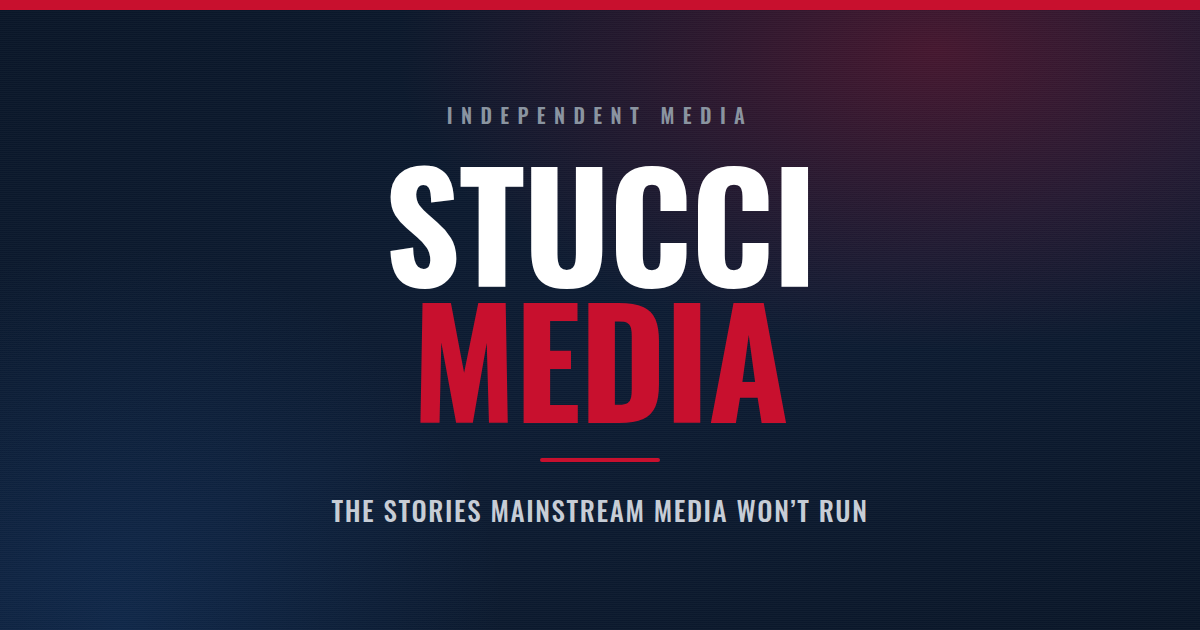
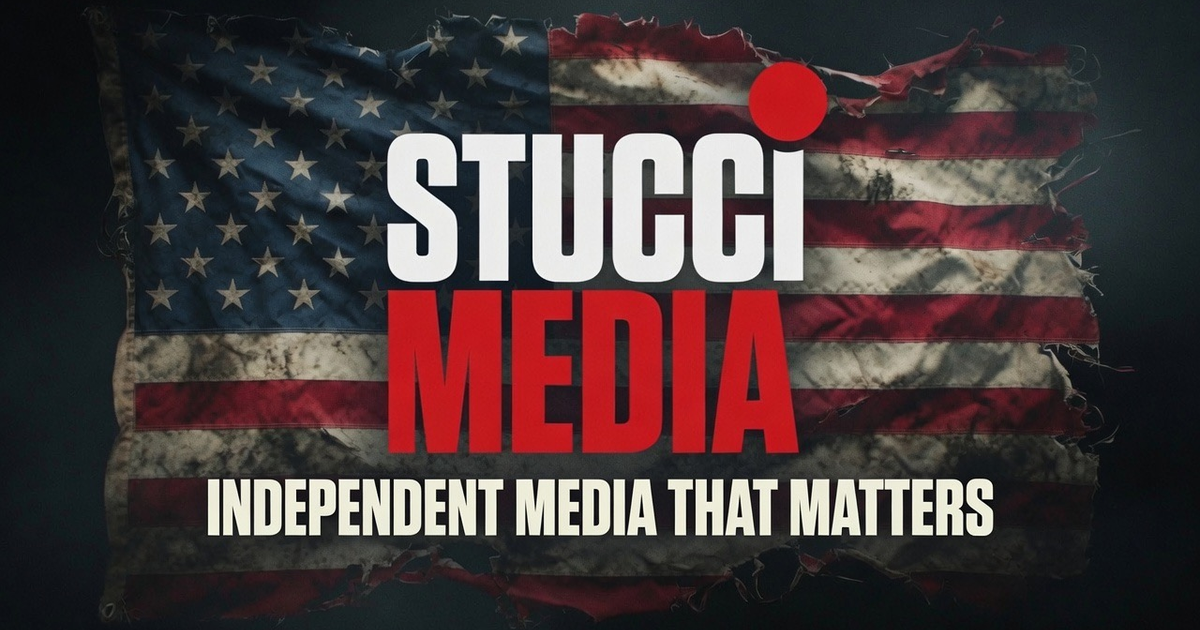
Update default share image (og:image) to new branded flag design
Replaces the sitewide og-default.png fallback (homepage, category/
article/contact pages without their own share image) with a new
1200x630 branded card supplied directly, cropped via sharp from the
1280x720 source. No code changes needed — every page already
references this one file.

diff --git a/CLAUDE.md b/CLAUDE.md
@@ -2394,3 +2394,30 @@ overflow categories a real home.
   main-menu-cap warning appears correctly once 5 MAIN categories already
   exist. A throwaway admin account used for the admin-UI checks was
   removed afterward.
+
+## Phase 39 — done: new default share image
+
+`public/og-default.png` (the sitewide fallback `og:image` — homepage,
+category pages without their own share image, articles without a set OG
+image, and Contact) replaced with a new branded 1200×630 card (torn
+American flag background, "Stucci Media / Independent Media That
+Matters"), supplied directly by Rocci and cropped from a 1280×720 source
+via `sharp` (`cover` fit, top/bottom trimmed slightly — the wordmark and
+tagline both stay fully visible at the new crop). No code changes needed
+— every page that references `/og-default.png` already pulls from this
+one file, so the swap took effect everywhere at once.
+
+- **Real root cause found for a live bug report**: Rocci reported
+  Facebook's link preview for the homepage showing a generic gray box
+  and the title "Home" instead of the real branded card. The homepage's
+  actual `openGraph`/`twitter` metadata (`app/layout.tsx`) was already
+  correct — verified directly, title/description/image all set
+  properly, and `og-default.png` was already a real branded image before
+  this phase, not a placeholder. The mismatch was diagnosed as Facebook's
+  own link-preview cache: Facebook scrapes a URL once and holds onto
+  that result indefinitely regardless of later code/content changes,
+  so a stale scrape (e.g. from before proper metadata existed) keeps
+  showing until someone forces a re-scrape. Fix given to Rocci: Facebook
+  Sharing Debugger (developers.facebook.com/tools/debug/) → paste the
+  URL → "Scrape Again" — not a code fix, since there was nothing wrong
+  in the code to fix.
